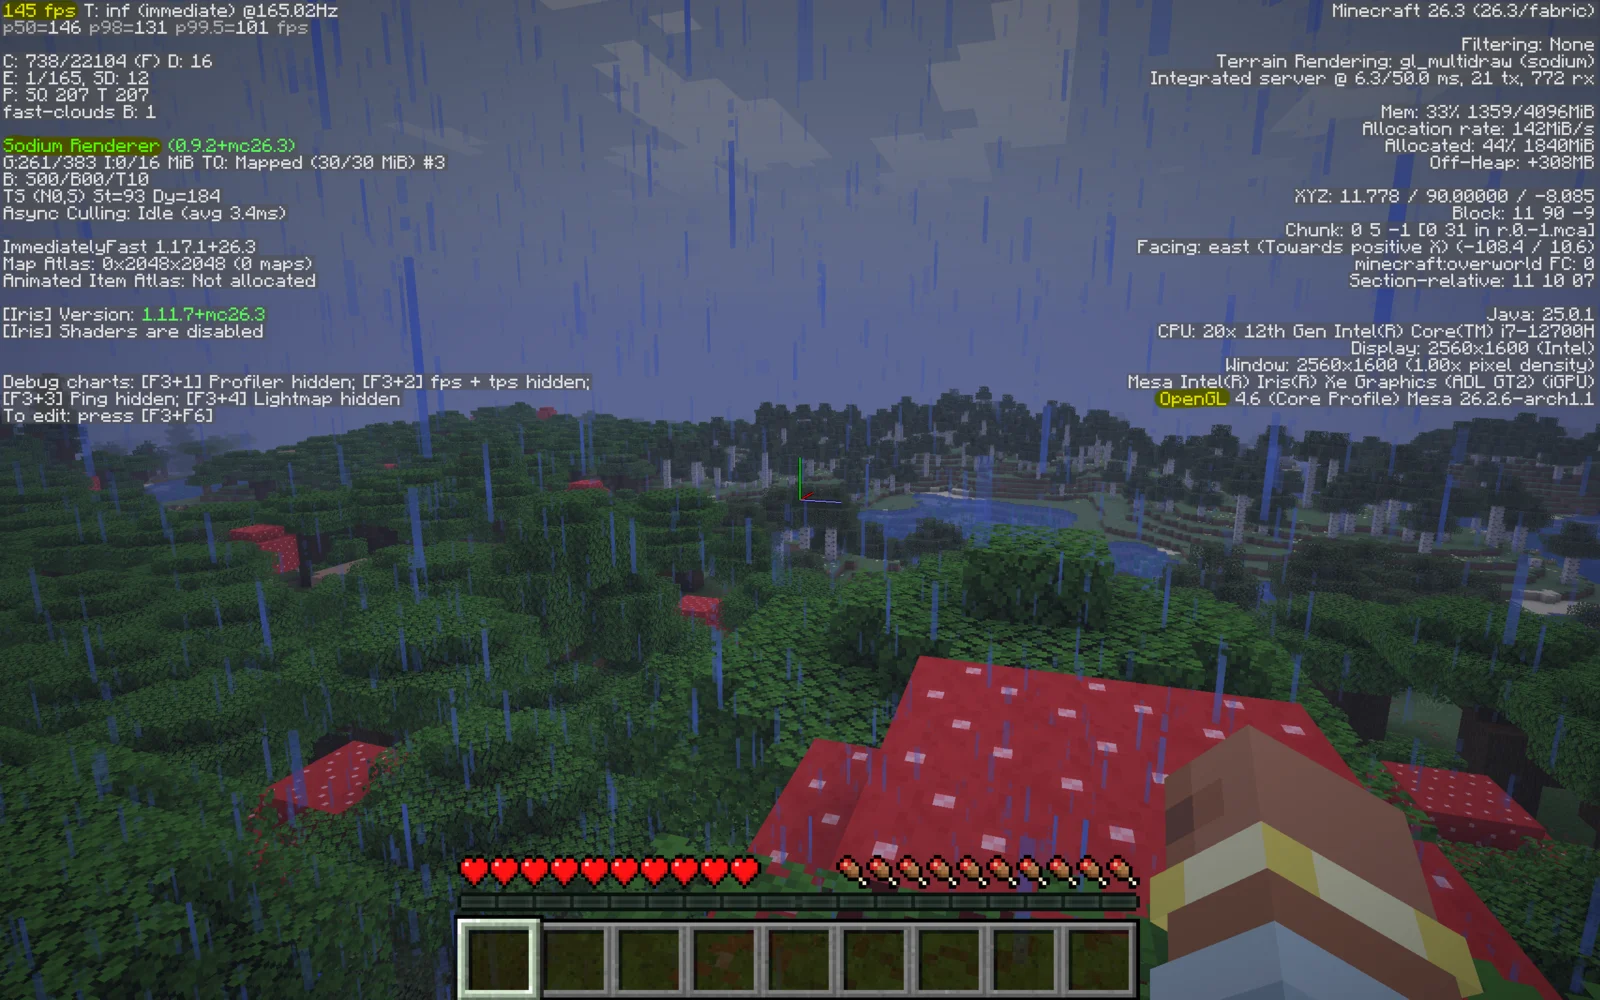
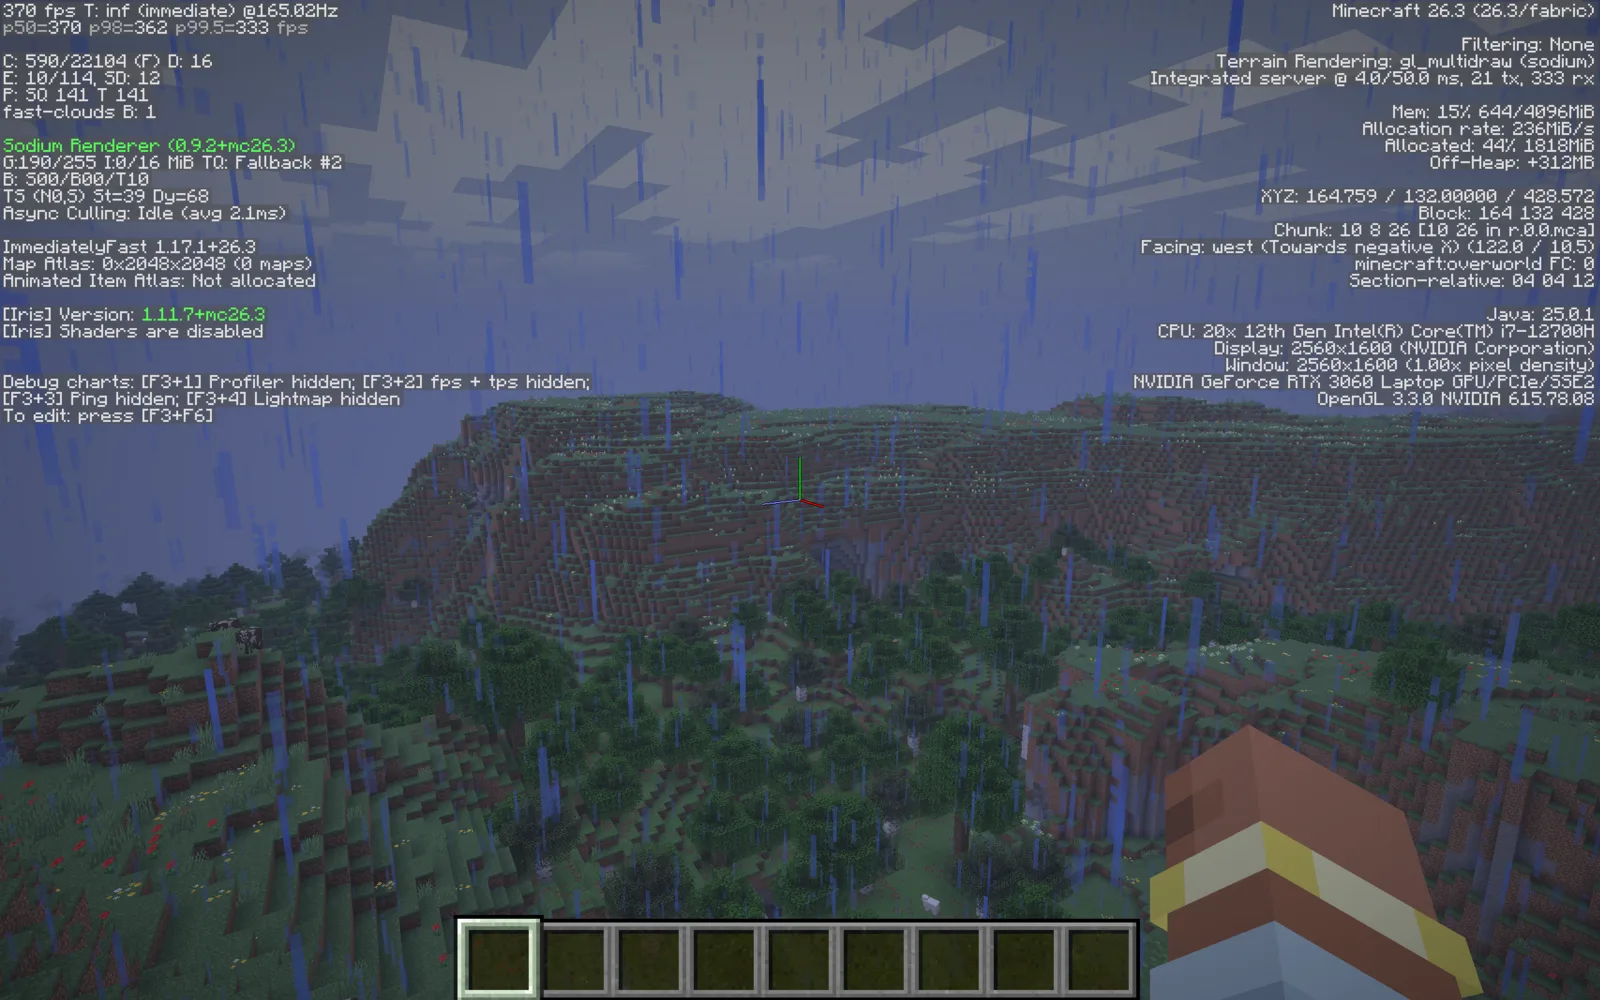
updated article

diff --git a/src/lib/blog/posts/how-i-made-minecraft-run-almost-4-times-better.en.md b/src/lib/blog/posts/how-i-made-minecraft-run-almost-4-times-better.en.md
@@ -1,50 +1,58 @@
 ---
-title: How I made Minecraft run almost 4 times better
+title: How I made Minecraft run 37% better
 date: 2026-11-11
-description: OpenGL, Vulkan, and a modded build took Minecraft from 92 to 333 FPS on a Linux laptop with an Nvidia GPU.
+description: OpenGL, Vulkan, and a modded build took Minecraft from 295 to 405 FPS on a Linux laptop with an Nvidia GPU.
 ---
 
-I use EndeavourOS on a laptop with an Nvidia GPU, and recently decided to install Minecraft.
+I use EndeavourOS on a laptop with an Nvidia GPU, and recently I decided to install Minecraft.
 
-## Standard Edition
+## Standard Edition with OpenGL
 
 First, I installed the standard edition through Prism Launcher.
 
 ![Prism Launcher](/blog/images/prism-launcher.webp)
 
-By default, it runs on OpenGL and gives around 92 FPS in this location.
+By default, it runs on OpenGL using the integrated Intel GPU and gives around 123 FPS at this spot.
 
-![OpenGL](/blog/images/opengl.webp)
+![OpenGL on the integrated GPU](/blog/images/opengl-integrated-gpu.webp)
 
-## Vulkan
+To make it use the dedicated GPU, I changed this setting in Prism Launcher:
 
-Switching from OpenGL to Vulkan gives almost 3× the FPS (260).
+![Use discrete GPU setting](/blog/images/dedicated-gpu-setting.webp)
 
-![Vulkan](/blog/images/vulkan.webp)
+Now, with the Nvidia GPU, it runs at 295 FPS:
 
-## 'Fabulously Optimized' build
+![OpenGL on the dedicated GPU](/blog/images/opengl-vanilla.webp)
 
-When you create a Minecraft instance in Prism Launcher, you can pick among various ready-made builds. I picked the Fabulously Optimized one, which was the first in the list. Running the same world from this instance gives a huge boost in FPS compared to the vanilla version (1.5×, 145 FPS).
+## Standard Edition with Vulkan
+
+Switching from OpenGL to Vulkan gives a slight performance boost (305 FPS):
+
+![Vulkan vanilla](/blog/images/vulkan-vanilla.webp)
+
+## 'Fabulously Optimized' build with OpenGL
+
+When you create a Minecraft instance in Prism Launcher, you can pick from various ready-made builds. I picked the Fabulously Optimized one, which was first in the list. Running the same world in this instance gives a huge boost in FPS compared to the vanilla version (1.25×, 370 FPS).
 
 ![OpenGL modded](/blog/images/modded-opengl.webp)
 
-## 'Fabulously Optimized' on Vulkan
+## 'Fabulously Optimized' build with Vulkan
 
-When switching to Vulkan, the FPS in the modded instance increases as well. Now it's 333 FPS in the same location, which is more than twice the FPS of the modded OpenGL instance and almost four times that of the vanilla OpenGL one.
+Switching to Vulkan raises the FPS of the modded instance even further: 405 FPS at the same spot.
 
-![Vulkan modded](/blog/images/vulkan-modded.webp)
+![Vulkan modded](/blog/images/modded-vulkan.webp)
 
 ## All the results
 
 | Version | OpenGL | Vulkan |
 | --- | --- | --- |
-| Vanilla | 92 FPS | 260 FPS |
-| Modded | 145 FPS | 333 FPS |
+| Vanilla | 295 FPS | 305 FPS |
+| Modded | 370 FPS | 405 FPS (+37%) |
 
 ## Can it be improved even further?
 
-So far, all of this has been on the standard Java Edition. Lately, Horizon — a new launcher written in Rust — has appeared, but in my experience it runs worse than the Java Edition — the only real benefit is almost instant world loading.
+So far, all of this has been with the standard Java Edition. Lately, Horizon — a new launcher written in Rust — has appeared, but in my experience it runs worse than the Java Edition; the only real benefit is almost instant world loading.
 
 ## How did I sync the worlds between instances?
 
-You may ask how I was able to test the same world from the same location in two different Minecraft instances. If you right-click on a Minecraft instance in Prism Launcher, you can open its files by choosing 'Folder' in the context menu. Then, you can go to /minecraft/saves and copy your world to the same location in another instance. However, this only copies the world statically, and it won't be synchronised between the instances. To keep it synchronised, you don't even need to copy the save each time you switch to another Minecraft instance. You can simply create a symlink to a particular save in another instance's 'saves' folder. So in reality, you will only have one save in one instance, but other instances will use it through the symlink you added to their saves.
+You may wonder how I tested the same world at the same spot in two different Minecraft instances. If you right-click a Minecraft instance in Prism Launcher, you can open its folder by choosing 'Folder' in the context menu. Then go to `/minecraft/saves` and copy your world to the same location in the other instance. However, this copies the world only once, so it won't stay in sync between the instances. To keep it in sync, you don't need to copy the save each time you switch instances: just create a symlink to that save in the other instance's `saves` folder. You then keep a single save in one instance, and the other instances use it through the symlink.
